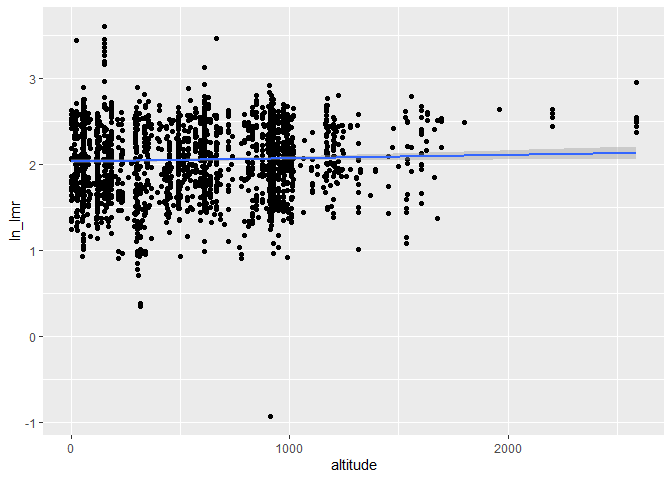
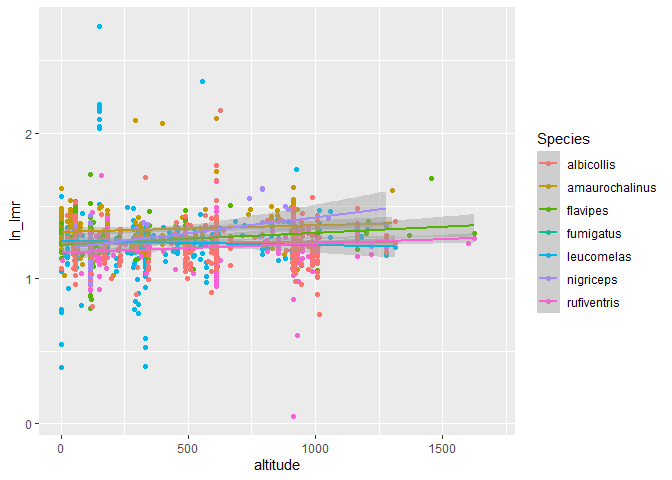
Edited graph descriptions, added intro to README, added Turdus graph to poster

diff --git a/My-Poster.md b/My-Poster.md
@@ -58,9 +58,7 @@ Casey Perkins, Bryn Rivenes
 
 ###### Photo 3: A map of the Atlantic Forest (Image by Viviane G. FerroPriscila LemesAdriano S. MeloRafael Loyola)
 
-###### Photo 4: One way to collect bird data is through catching birds in bird nets. (Photo of a MacGillivray’s Warbler in a mist net) (Photo
-
-from animalia7)
+###### Photo 4: One way to collect bird data is through catching birds in bird nets. (Photo of a MacGillivray’s Warbler in a mist net) (Photo from animalia7)
 
 ## Results
 
@@ -85,24 +83,41 @@ from animalia7)
 ###### Figure 5: We corrected the skew in our data by transforming it by taking the natural log of the length mass ratios (lmr).
 
 As we can see from Figure 4 and 5, the majority of our data seems to
-come from one order, the Passeriformes. Because of this, we decided to
-focus on just this group.
+come from one order, the Passeriformes. A few other groups (such as
+Anseriformes) could be skewing our data. Because of this, we decided to
+focus on just this one group.
 
-![](My-Poster_files/figure-gfm/unnamed-chunk-6-1.png)<!-- -->![](My-Poster_files/figure-gfm/unnamed-chunk-6-2.png)<!-- -->
+![](My-Poster_files/figure-gfm/unnamed-chunk-6-1.png)<!-- -->
 
-###### Figure 6: We plotted the mean lmr for each genus/species and saw a slight upward trend which intensified when we looked exclusivly at altitudes higher than 1000
+###### Figure 6: Examining the log of the lmr vs altitude for each species in the genus Turdus, we were able to see a slight positive correlation.
 
-![](My-Poster_files/figure-gfm/unnamed-chunk-7-1.png)<!-- -->
+![](My-Poster_files/figure-gfm/unnamed-chunk-7-1.png)<!-- -->![](My-Poster_files/figure-gfm/unnamed-chunk-7-2.png)<!-- -->
 
-###### We took the mean lmr of birds found over 1000 m and birds found under 1000 and found the means were different
+###### Figure 6: We plotted the mean lmr for each species in the family Furnariidae and saw a slight upward trend which intensified when we looked exclusively at altitudes higher than 1000 meters.
 
-###### The mean lmr of birds found above 1000 m = 7.9 while the mean lmr of birds found below 1000 m = 5.2. A Welch’s Two Sample t-test found t(76) = 3.6, p =0.0005.
+We also looked at the ln(lmr) vs altitude for another group under
+Passeriformes (the family Furnariidae), we did not see much of a
+correlation. However, when we examined this family from above an
+altitude of 1000 meters, we can clearly see a positive correlation
+between the log of the lmr and altitude.
+
+![](My-Poster_files/figure-gfm/unnamed-chunk-8-1.png)<!-- -->
+
+###### Figure : two frequency charts for the ln(lmr) for all species in the order Passeriformes both above and below an altitude of 1000 meters. The red line indicates the mean of each set of data.
+
+We examined the counts of lmr for all passeriformes species both above
+and below 1000 m and we could clearly see that there was a difference in
+the two means.
+
+The mean lmr of birds found above 1000 m = 7.9 while the mean lmr of
+birds found below 1000 m = 5.2. A Welch’s Two Sample t-test found t(76)
+= 3.6, p =0.0005.
 
 ## Discussion
 
 -   We predicted length mass ratio would decrease with elevation
     however, our analysis and t-test show an increase in length mass
-    ratio with increased elevation
+    ratio with an increase in elevation
 
 -   This is the exact **opposite** of what we would expect to see
     according to **Allen’s Rule** 

diff --git a/README.md b/README.md
@@ -9,9 +9,11 @@
 
 ### Introduction:
 
+This project was done by two students as a part of Dr. Chris Merkord's Quantitative Biology course at Minnesota State University Moorhead in Spring 2022. We set out to explore a data set and create a poster showing off our observations and analysis.
+
 ### Abstract:
 
-Ecogeographic rules explain variation within a species using biogeography. Allen's rule states that body surface-area-to-volume ratio for animals varies with the average temperature of their habitat. Typically, latitude is used as the temperature variable. However, this rule should hold true over any type of temperature variable. We want to know, is there a correlation between altitude and ratio of mass to length of birds in The Atlantic Forest? To answer this question, we used the Atlantic Bird Traits data set. This data set has been compiled over two centuries by tens of researchers (1820-2018) and includes data on 80% of the bird populations found in The Atlantic Forest. We used R Studio to perform an exploratory analysis on this data set while looking for correlations between altitude and ratio of mass to length of bird species. Based on other similar analyses, we expected to see a positive correlation between these variables. However, our results seemingly show opposite correlation. This is a very intersting observation and brings into question the validity of Allen's Rule.
+Ecogeographic rules explain variation within a species using biogeography. Allen's rule states that body surface-area-to-volume ratio for animals varies with the average temperature of their habitat. Typically, latitude is used as the temperature variable. However, this rule should hold true over any type of temperature variable. We want to know, is there a correlation between altitude and ratio of mass to length of birds in The Atlantic Forest? To answer this question, we used the Atlantic Bird Traits data set. This data set has been compiled over two centuries by tens of researchers (1820-2018) and includes data on 80% of the bird populations found in The Atlantic Forest. We used R Studio to perform an exploratory analysis on this data set while looking for correlations between altitude and ratio of mass to length of bird species. Based on other similar analyses, we expected to see a positive correlation between these variables. However, our results seemingly show opposite correlation. This is a very interesting observation and brings into question the validity of Allen's Rule.
 
 ### Table of Contents:
 
